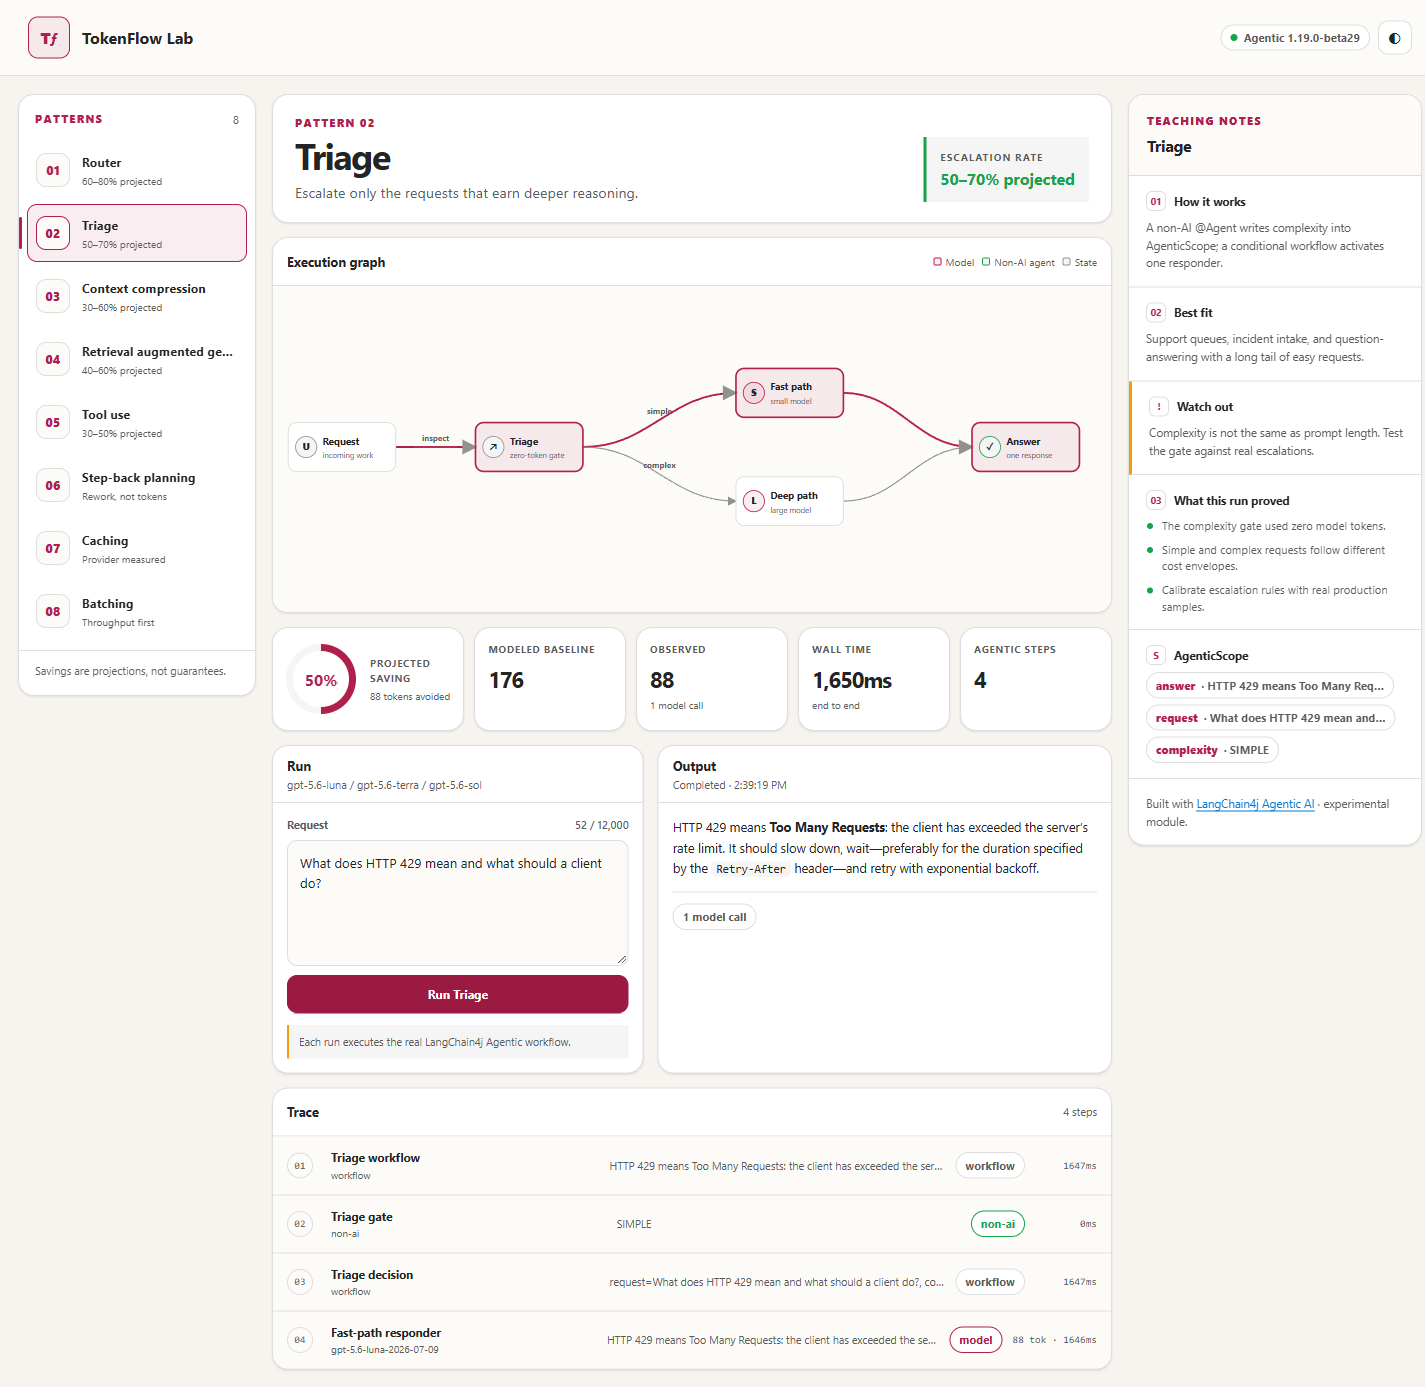
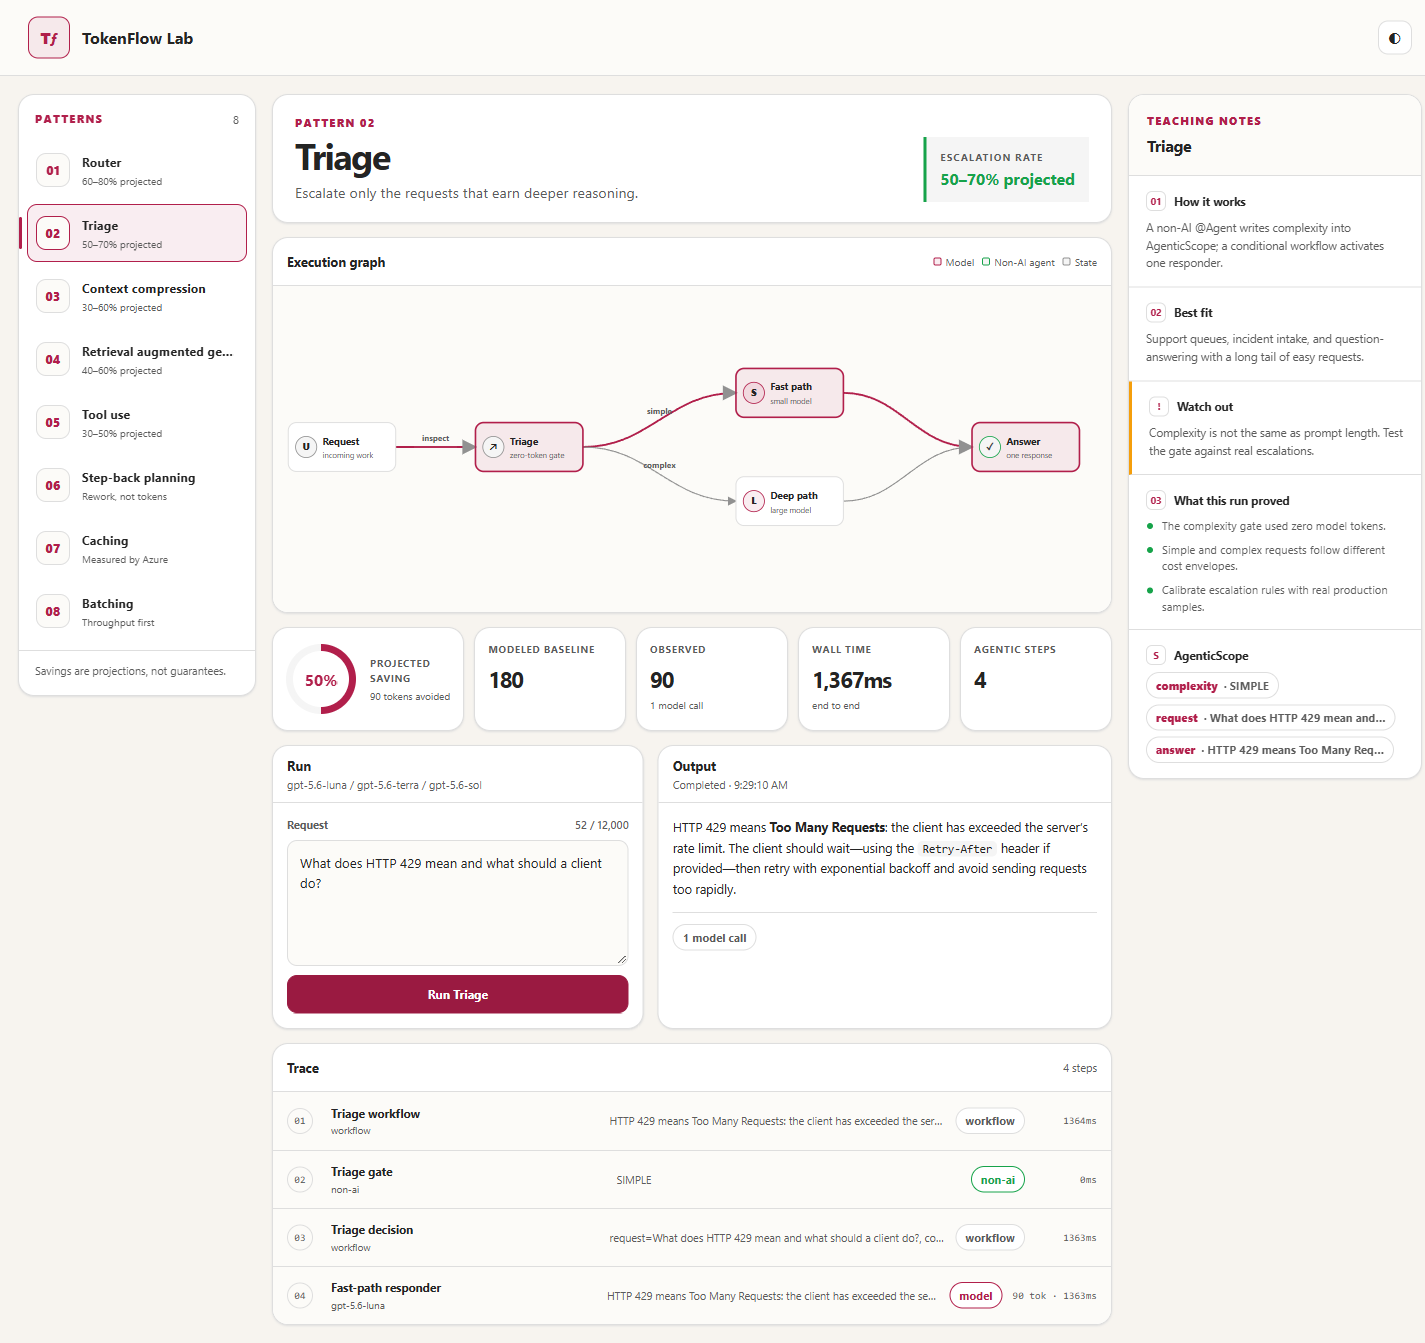
Remove framework credits and version badge from the UI
Drops the "Built with LangChain4j Agentic AI" footer, the Agentic version badge, and the generic run note, removes LangChain4j from the teaching notes and page title, and refreshes the README screenshot from Azure.

diff --git a/src/main/resources/static/index.html b/src/main/resources/static/index.html
@@ -11,8 +11,8 @@
   </script>
   <meta charset="utf-8" />
   <meta name="viewport" content="width=device-width, initial-scale=1" />
-  <meta name="description" content="Interactive LangChain4j Agentic token design pattern lab" />
-  <title>TokenFlow Lab · LangChain4j Agentic Patterns</title>
+  <meta name="description" content="Interactive lab for token-efficient LLM agent design patterns" />
+  <title>TokenFlow Lab · Agent design patterns</title>
   <style>
     :root {
       color-scheme: light;
@@ -169,7 +169,6 @@
       gap: 8px;
     }
 
-    .status-pill,
     .mini-badge,
     .trace-kind,
     .scope-chip {
@@ -185,13 +184,6 @@
       font-size: 0.7rem;
       font-weight: 650;
       white-space: nowrap;
-    }
-
-    .status-dot {
-      width: 7px;
-      height: 7px;
-      border-radius: 999px;
-      background: var(--cp-success);
     }
 
     .icon-button {
@@ -1329,10 +1321,6 @@
         gap: 8px;
       }
 
-      .status-pill {
-        display: none;
-      }
-
       .workspace {
         padding: 8px;
       }
@@ -1385,7 +1373,6 @@
       </div>
     </div>
     <div class="header-actions">
-      <span class="status-pill"><i class="status-dot"></i><span id="runtimeStatus">Loading runtime</span></span>
       <button class="icon-button" id="themeToggle" type="button" aria-label="Toggle color theme" title="Toggle color theme">◐</button>
     </div>
   </header>
@@ -1490,7 +1477,7 @@
               <button class="primary-button" id="runButton" type="button">Run pattern</button>
               <button class="secondary-button" id="cacheResetButton" type="button" hidden>Start over</button>
             </div>
-            <div class="run-note" id="runNote">Each run executes the real LangChain4j Agentic workflow.</div>
+            <div class="run-note" id="runNote" hidden></div>
             <div class="cache-receipt" id="cacheReceipt" hidden>
               <strong>Cache tests in this browser session</strong>
               <ol class="cache-history" id="cacheHistory"></ol>
@@ -1558,9 +1545,6 @@
           <h4><span class="section-index">S</span>AgenticScope</h4>
           <div class="scope-list" id="scopeList"></div>
         </section>
-        <section class="teaching-section">
-          <p>Built with <a href="https://docs.langchain4j.dev/tutorials/agents/" target="_blank" rel="noreferrer">LangChain4j Agentic AI</a> · experimental module.</p>
-        </section>
       </div>
     </aside>
   </main>
@@ -1625,8 +1609,7 @@
       watchOutText: $("#watchOutText"),
       takeawayList: $("#takeawayList"),
       scopeSection: $("#scopeSection"),
-      scopeList: $("#scopeList"),
-      runtimeStatus: $("#runtimeStatus")
+      scopeList: $("#scopeList")
     };
 
     function createElement(tag, className, text) {
@@ -1651,7 +1634,6 @@
         if (!patternsResponse.ok || !configResponse.ok) throw new Error("The application API is not available.");
         state.patterns = await patternsResponse.json();
         state.config = await configResponse.json();
-        elements.runtimeStatus.textContent = `Agentic ${state.config.agenticVersion}`;
         elements.modelSummary.textContent = state.config.models;
         renderPatternList();
         selectPattern(state.patterns[0]?.id);
@@ -1661,7 +1643,6 @@
         }
       } catch (error) {
         showError(error.message);
-        elements.runtimeStatus.textContent = "Runtime unavailable";
       }
     }
 
@@ -1720,7 +1701,8 @@
           ? "Enter one to six independent items, separated by semicolons or newlines. Each item makes one model call."
           : pattern.id === "tool-use"
             ? "State the input and output token counts and both per-million rates. Numbers can use commas and k, M, or B."
-            : "Each run executes the real LangChain4j Agentic workflow.";
+            : "";
+      elements.runNote.hidden = !elements.runNote.textContent;
       elements.teachingTitle.textContent = pattern.name;
       elements.mechanismText.textContent = pattern.mechanism;
       elements.bestForText.textContent = pattern.bestFor;

diff --git a/src/main/java/com/example/tokenpatterns/service/PatternCatalog.java b/src/main/java/com/example/tokenpatterns/service/PatternCatalog.java
@@ -50,7 +50,7 @@ public class PatternCatalog {
                 "router", 1, "Router", "route", "60–80% projected",
                 "Match each request to the least expensive capable path.",
                 "A small classifier chooses a narrow specialist instead of sending every request to the largest model.",
-                "LangChain4j sequence + conditional workflows share the selected route through AgenticScope.",
+                "Sequence and conditional workflows share the selected route through AgenticScope.",
                 "Mixed workloads with clear domains or capability tiers.",
                 "Routing errors can cost more than model savings. Keep a fallback and measure misroutes.",
                 "Large-model calls avoided",
@@ -163,7 +163,7 @@ public class PatternCatalog {
                 "tool-use", 5, "Tool use", "tool", "30–50% projected",
                 "Use deterministic computation where language reasoning adds no value.",
                 "A non-AI cost calculator performs exact arithmetic; a model only explains the verified result.",
-                "LangChain4j runs the calculator as a non-AI @Agent in a sequence workflow. It reads the labeled input and output token counts and both per-million rates; missing, negative, or ambiguous values are rejected before any model call.",
+                "The calculator runs as a non-AI @Agent in a sequence workflow. It reads the labeled input and output token counts and both per-million rates; missing, negative, or ambiguous values are rejected before any model call.",
                 "Math, lookups, database operations, APIs, validation, and side-effecting work.",
                 "Tools need typed inputs, timeouts, authorization, and clear failure behavior.",
                 "Reasoning tokens replaced",
@@ -235,7 +235,7 @@ public class PatternCatalog {
                 "batching", 8, "Batching", "batch", "Throughput first",
                 "Fan independent work out concurrently and amortize orchestration overhead.",
                 "A parallel mapper applies one stateless agent to each of one to six semicolon- or newline-separated items and aggregates the results.",
-                "LangChain4j parallelMapperBuilder coordinates the fan-out and preserves a single top-level execution trace.",
+                "A parallelMapperBuilder workflow coordinates the fan-out and preserves a single top-level execution trace.",
                 "Bulk classification, extraction, evaluation, and independent document processing.",
                 "Parallelism lowers wall time, not content tokens by itself. One item means one call; more than six items are rejected, never silently dropped.",
                 "Wall time and throughput",
